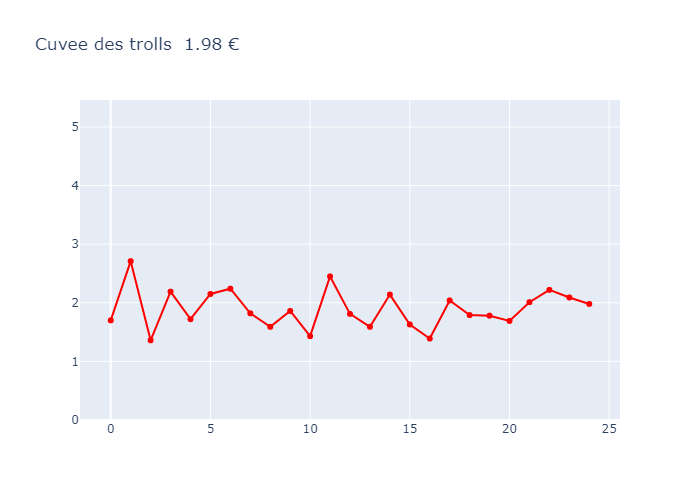
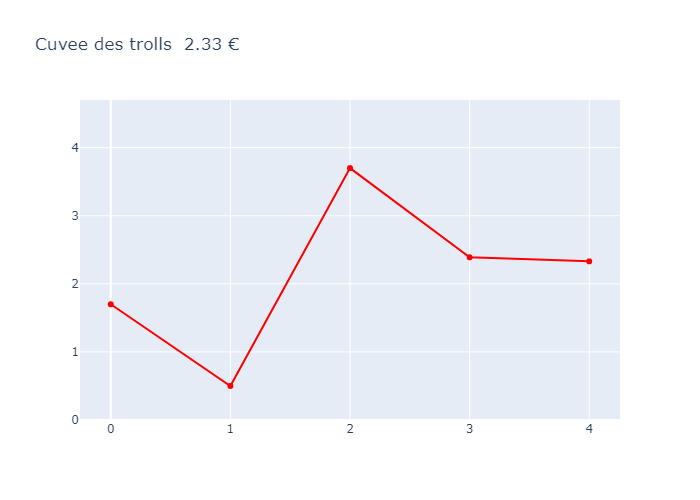
aaa

diff --git a/templates/courbes.html b/templates/courbes.html
@@ -5,6 +5,20 @@
         <link rel="stylesheet" href="{{url_for('static', filename='style1.css')}}">
         <title>Foyer Bourse</title>
         <link rel="icon" href="{{url_for('static', filename='images/logo.jpg')}}">
+        <script>
+            
+            var timeleft = localStorage.getItem("time_left") || {{time_left}};
+            var downloadTimer = setInterval(function(){
+                timeleft--;
+                var seconds = timeleft % 60;
+                var minutes = Math.floor(timeleft / 60);
+                document.getElementById("countdown").textContent = minutes + " minutes " + seconds + " secondes";
+                localStorage.setItem("time_left", timeleft);
+                if(timeleft <= 0)
+                    clearInterval(downloadTimer);
+            },1000);
+            localStorage.clear()
+        </script>
     </head>
 
     <body>
@@ -19,6 +33,13 @@
             <h3 class="centre">
                 <a href="accueil" class="lobby_button">RETOUR À L'ACCEUIL</a>
             </h3>
+        </section>
+        <section>
+            <div class="block">
+                <div>
+                    <h2 class="update">Prochaine mise à jour des prix dans : <div id="countdown"></div></h2>
+                </div>
+            </div>
         </section>
         <form method="POST" action="courbes" class="block">
             <select name="selected_plot">

diff --git a/templates/recommandation.html b/templates/recommandation.html
@@ -5,6 +5,19 @@
         <link rel="stylesheet" href="{{url_for('static', filename='style1.css')}}" />
         <title>Recommandation</title>
         <link rel="icon" href="{{url_for('static', filename='images/logo.jpg')}}">
+        <script>
+            var timeleft = localStorage.getItem("time_left") || {{time_left}};
+            var downloadTimer = setInterval(function(){
+                timeleft--;
+                var seconds = timeleft % 60;
+                var minutes = Math.floor(timeleft / 60);
+                document.getElementById("countdown").textContent = minutes + " minutes " + seconds + " secondes";
+                localStorage.setItem("time_left", timeleft);
+                if(timeleft <= 0)
+                    clearInterval(downloadTimer);
+            },1000);
+            localStorage.clear()
+        </script>
     </head>
     <body>
         <header>
@@ -18,6 +31,13 @@
             <h3 class="centre">
                 <a href="accueil" class="lobby_button">RETOUR À L'ACCEUIL</a>
             </h3>
+        </section>
+        <section>
+            <div class="block">
+                <div>
+                    <h2 class="update">Prochaine mise à jour des prix dans : <div id="countdown"></div></h2>
+                </div>
+            </div>
         </section>
         <div class="block">
             <div class="reco">

diff --git a/templates/accueil.html b/templates/accueil.html
@@ -5,6 +5,20 @@
         <link rel="stylesheet" href="{{url_for('static', filename='style1.css')}}">
         <title>Foyer Bourse</title>
         <link rel="icon" href="{{url_for('static', filename='images/logo.jpg')}}">
+        <script>
+            
+            var timeleft = localStorage.getItem("time_left") || {{time_left}};
+            var downloadTimer = setInterval(function(){
+                timeleft--;
+                var seconds = timeleft % 60;
+                var minutes = Math.floor(timeleft / 60);
+                document.getElementById("countdown").textContent = minutes + " minutes " + seconds + " secondes";
+                localStorage.setItem("time_left", timeleft);
+                if(timeleft <= 0)
+                    clearInterval(downloadTimer);
+            },1000);
+            localStorage.clear()
+        </script>
     </head>
 
     <body>
@@ -15,6 +29,13 @@
                 </div>
             </div>
         </header>
+        <section>
+            <div class="block">
+                <div>
+                    <h2 class="update">Prochaine mise à jour des prix dans : <div id="countdown"></div></h2>
+                </div>
+            </div>
+        </section>
     <div class="block">
         <div class="page">
             <div>

diff --git a/templates/tableau.html b/templates/tableau.html
@@ -5,6 +5,20 @@
         <link rel="stylesheet" href="{{url_for('static', filename='style1.css')}}">
         <title>Foyer Bourse</title>
         <link rel="icon" href="{{url_for('static', filename='images/logo.jpg')}}">
+        <script>
+            
+            var timeleft = localStorage.getItem("time_left") || {{time_left}};
+            var downloadTimer = setInterval(function(){
+                timeleft--;
+                var seconds = timeleft % 60;
+                var minutes = Math.floor(timeleft / 60);
+                document.getElementById("countdown").textContent = minutes + " minutes " + seconds + " secondes";
+                localStorage.setItem("time_left", timeleft);
+                if(timeleft <= 0)
+                    clearInterval(downloadTimer);
+            },1000);
+            localStorage.clear()
+        </script>   
     </head>
     <body>
         <header>
@@ -22,7 +36,7 @@
         <section>
             <div class="block">
                 <div>
-                    <h2 class="update">Prochaine mise à jour des prix dans :</h2>
+                    <h2 class="update">Prochaine mise à jour des prix dans : <div id="countdown"></div></h2>
                 </div>
             </div>
         </section>

diff --git a/static/countdown.js b/static/countdown.js
@@ -1,0 +1,11 @@
+<script>
+    var timeleft = {{time_left}};
+    var downloadTimer = setInterval(function(){
+        timeleft--;
+        var seconds = timeleft % 60;
+        var minutes = Math.floor(timeleft / 60);
+        document.getElementById("countdown").textContent = minutes + " minutes " + seconds + " secondes";
+        if(timeleft <= 0)
+            clearInterval(downloadTimer);
+    },1000);
+</script> 

diff --git a/main.py b/main.py
@@ -6,9 +6,12 @@ import beer_load
 from beer_load import *
 from application import *
 from recommandation import *
+import time
 
 app = Flask(__name__,static_folder='static')
 app.debug = True
+
+n = 300
 
 @app.route('/courbes', methods=['GET', 'POST'])
 def courbes():
@@ -19,20 +22,21 @@ def courbes():
         beer_load.tab.adjst_conso(conso)
         beer_load.tab.model_function()
         tab.draw_curve(selected_plot)
-    return render_template('courbes.html', beers=beer_load.beer_list,selected_plot=selected_plot)
+    return render_template('courbes.html', beers=beer_load.beer_list,selected_plot=selected_plot,time_left=n)
 
 @app.route('/accueil')
 def index():
-    return render_template('accueil.html')
+    return render_template('accueil.html',time_left=n)
 
 @app.route('/recommandation')
 def recommandation_display():
     beer=beer_load.beer_list[recommandation(306)%tab.nb_beers]
-    return render_template('recommandation.html', beers=beer)
+    return render_template('recommandation.html', beers=beer,time_left=n)
+
 
 @app.route('/tableau')
 def table_of_price():
-    return render_template('tableau.html', beers=beer_load.beer_list)
+    return render_template('tableau.html', beers=beer_load.beer_list,time_left=n)
 
 
 

diff --git a/application.py b/application.py
@@ -59,7 +59,7 @@ tab.draw_curve(beer_all)
 for beer in beers:
     tab.draw_curve(beer)'''
 
-for k in range(20):
+for k in range(2):
 
     consos=fonction_de_conso(beer_load.beer_list,beer_load.tab,init_price)
     beer_load.tab.adjst_conso(consos)

diff --git a/beer_load.py b/beer_load.py
@@ -1,5 +1,6 @@
 import json
 import model
+import time
 
 
 with open('biere_liste.json') as b_l:
